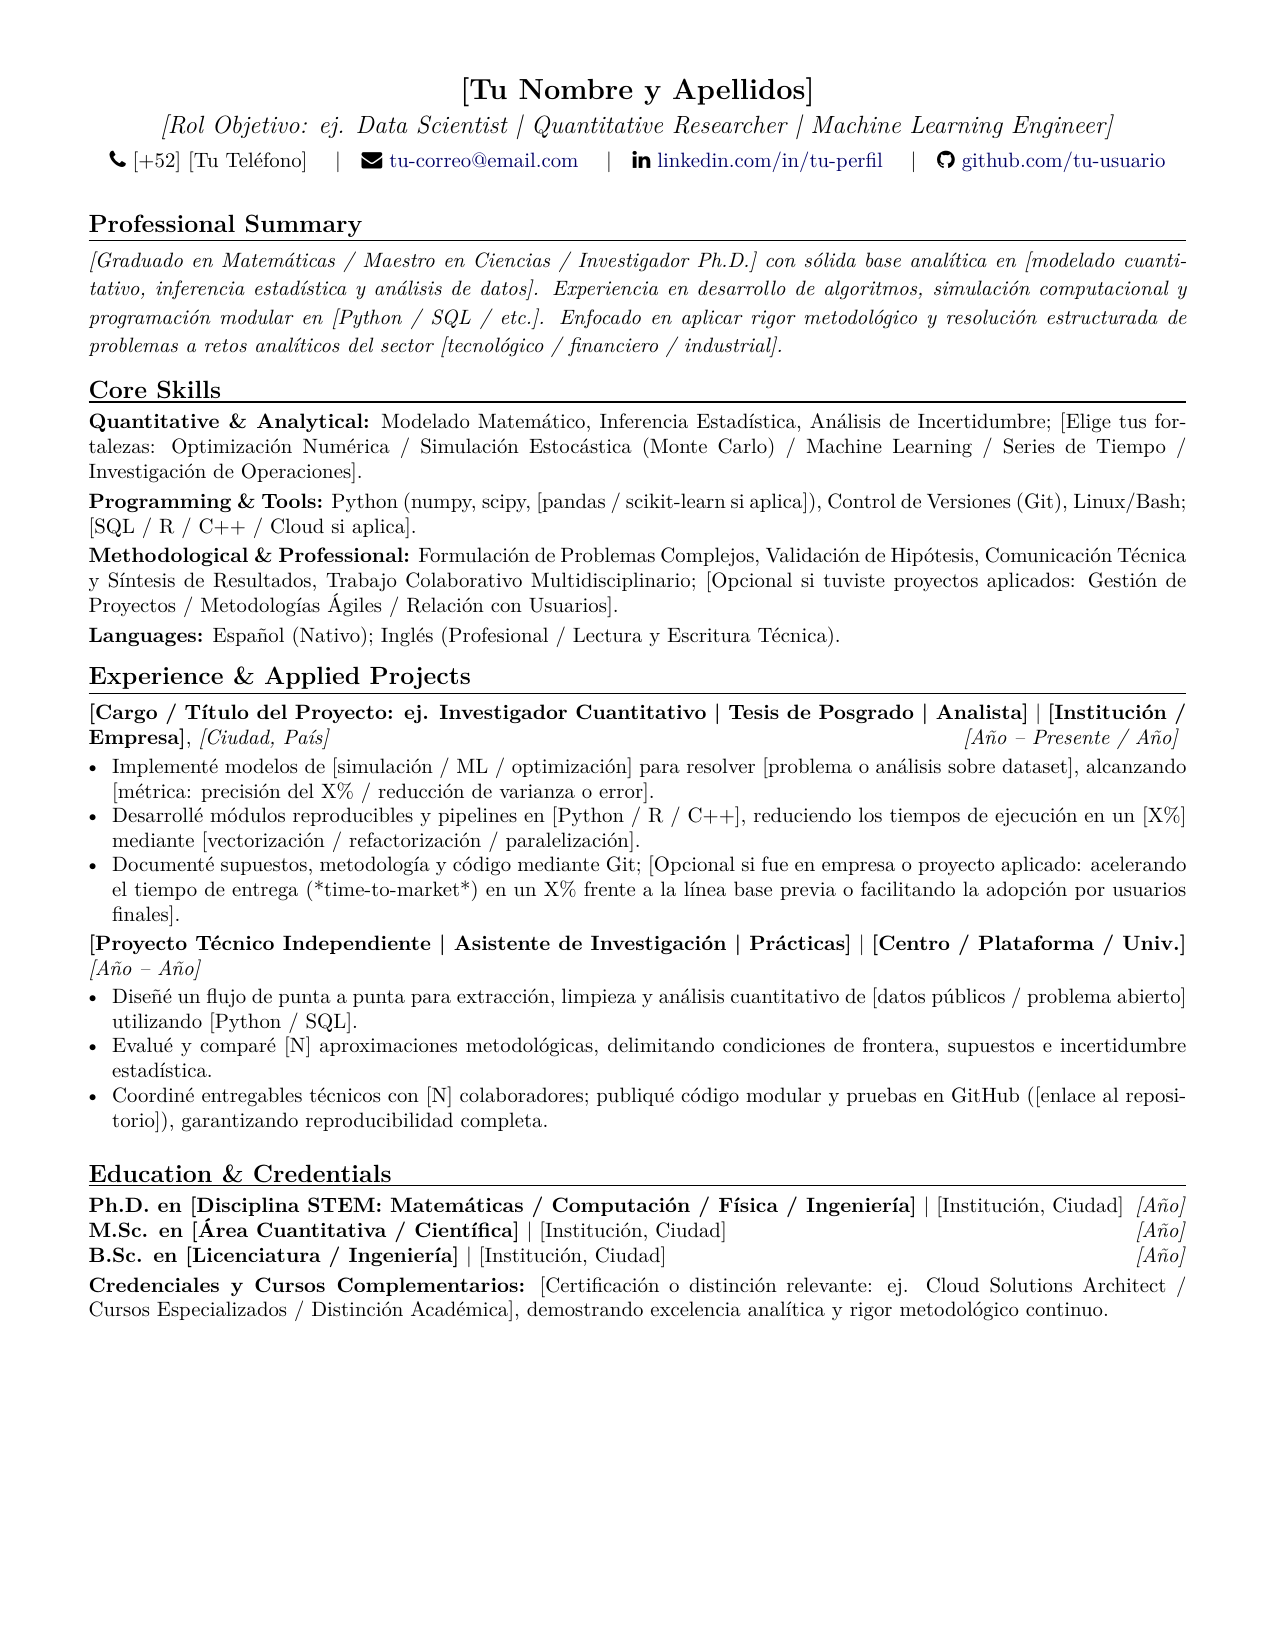
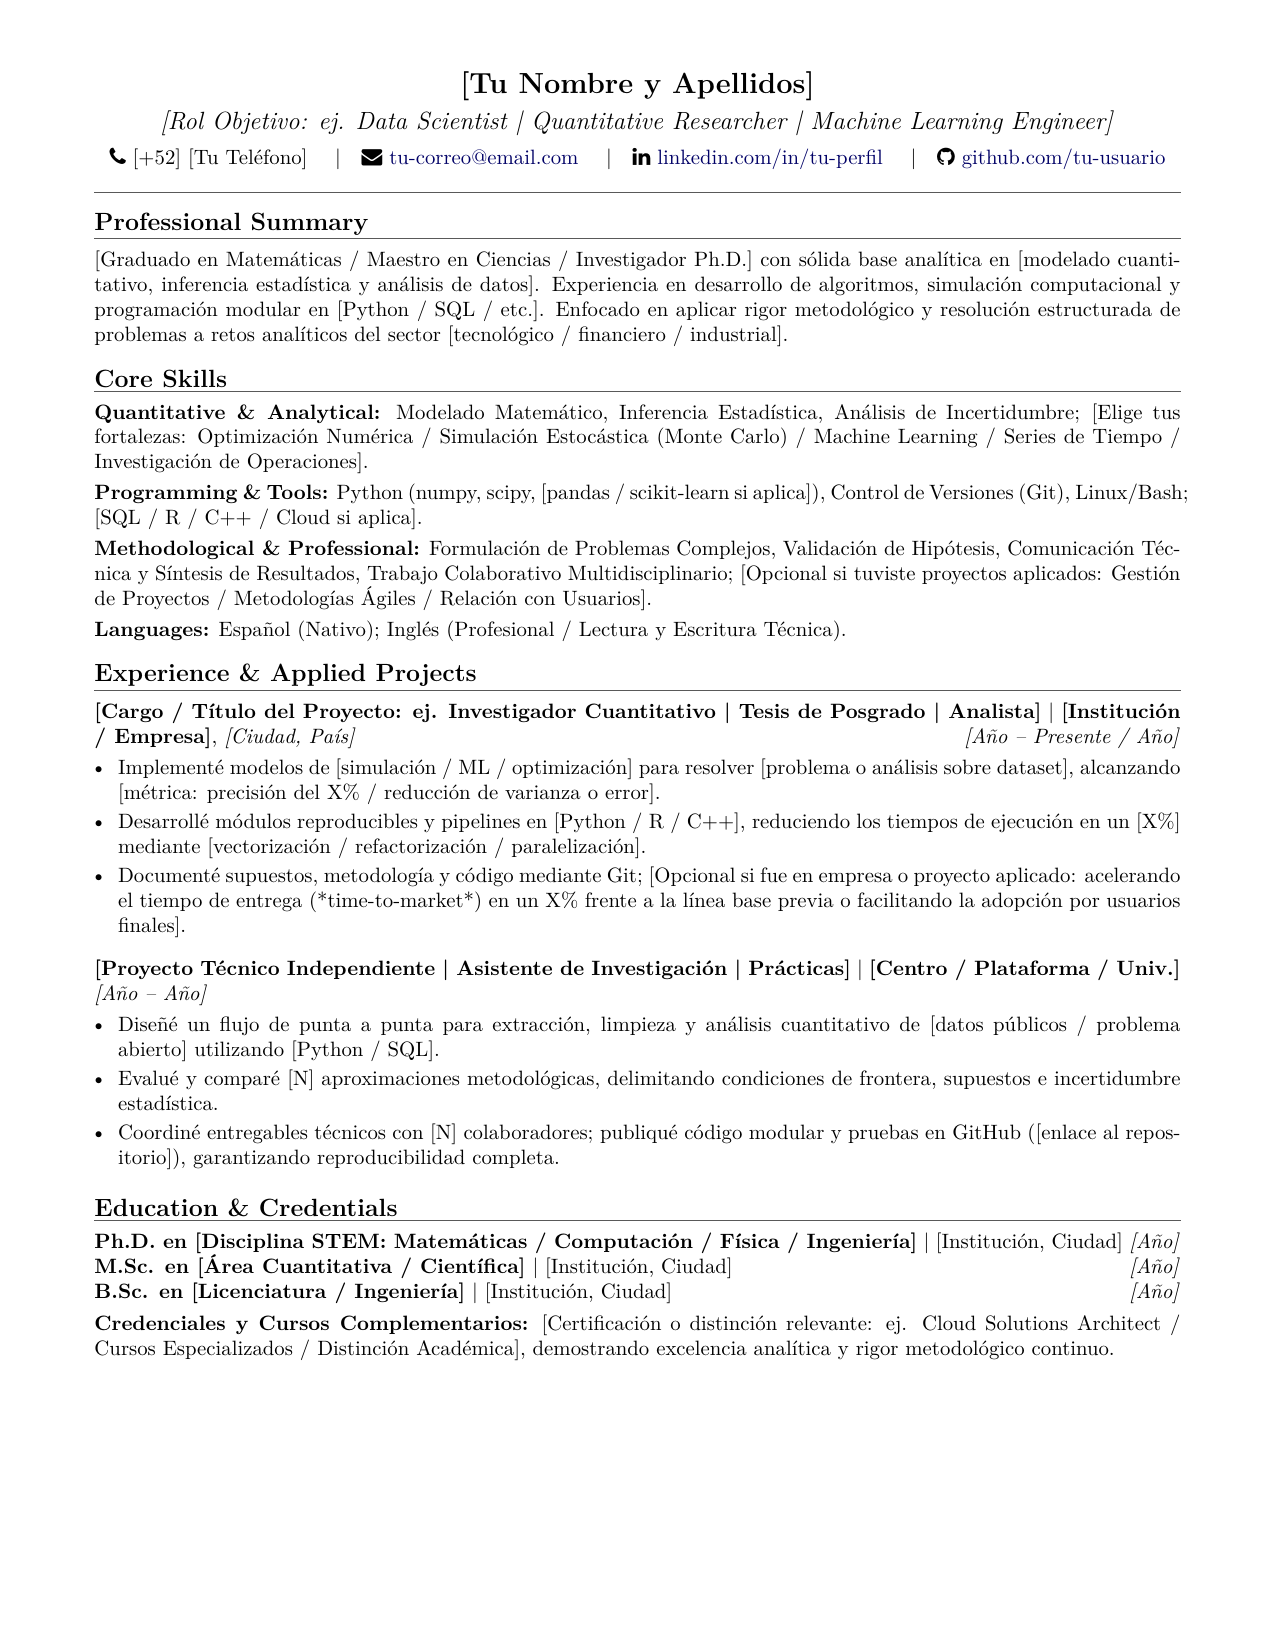
style: beautify LaTeX template — better vertical rhythm, header rule, itemsep spacing

Changed region(s): [[0.0612, 0.0309, 0.9482, 0.8345]]

diff --git a/recursos/plantilla-cv.tex b/recursos/plantilla-cv.tex
@@ -15,10 +15,10 @@
 
 % Márgenes optimizados para aprovechar la página sin saturarla
 \usepackage[paper=letterpaper,
-            top=1.3cm,
-            bottom=1.3cm,
-            left=1.5cm,
-            right=1.5cm]{geometry}
+            top=1.2cm,
+            bottom=1.2cm,
+            left=1.6cm,
+            right=1.6cm]{geometry}
 
 \setlength{\parindent}{0in}
 \usepackage{enumitem}
@@ -28,6 +28,7 @@
 % Enlaces e iconos limpios
 \usepackage{color,hyperref}
 \definecolor{darkblue}{rgb}{0.0,0.0,0.4}
+\definecolor{rulecolor}{gray}{0.35}
 \hypersetup{colorlinks,breaklinks,
             linkcolor=darkblue,urlcolor=darkblue,
             anchorcolor=darkblue,citecolor=darkblue}
@@ -36,11 +37,11 @@
 
 % Encabezados de sección limpios y compatibles con ATS
 \newcommand{\cvsection}[1]{%
-  \vspace{0.3cm}%
+  \vspace{0.35cm}%
   {\bfseries\large\scshape #1}%
-  \vspace{0.05cm}%
-  \hrule height 0.6pt%
-  \vspace{0.18cm}%
+  \vspace{0.06cm}%
+  {\color{rulecolor}\hrule height 0.5pt}%
+  \vspace{0.2cm}%
 }
 
 \newcommand{\semilarge}{\fontsize{14}{16.5}\selectfont}
@@ -51,8 +52,8 @@
 % 1. ENCABEZADO (Directo, sin foto y SIN fecha de creación de documento)
 % ==============================================================================
 \begin{center}
-  {\semilarge \textbf{[Tu Nombre y Apellidos]}} \\[0.1cm]
-  {\large \textit{[Rol Objetivo: ej. Data Scientist \textbar \ Quantitative Researcher \textbar \ Machine Learning Engineer]}} \\[0.15cm]
+  {\semilarge \textbf{[Tu Nombre y Apellidos]}} \\[0.12cm]
+  {\large \textit{[Rol Objetivo: ej. Data Scientist \textbar \ Quantitative Researcher \textbar \ Machine Learning Engineer]}} \\[0.18cm]
   \small
   \faPhone~[+52] [Tu Teléfono] \quad \textbar \quad
   \faEnvelope~\href{mailto:tu-correo@email.com}{tu-correo@email.com} \quad \textbar \quad
@@ -60,15 +61,15 @@
   \faGithub~\href{https://github.com/tu-usuario}{github.com/tu-usuario}
 \end{center}
 
-\vspace{-0.1cm}
+\vspace{-0.05cm}
+{\color{rulecolor}\hrule height 0.3pt}
 
 % ==============================================================================
 % 2. RESUMEN PROFESIONAL (3-4 líneas: quién eres analíticamente y qué resuelves)
 % ==============================================================================
 \cvsection{Professional Summary}
-\textit{\small
+\small
 [Graduado en Matemáticas / Maestro en Ciencias / Investigador Ph.D.] con sólida base analítica en [modelado cuantitativo, inferencia estadística y análisis de datos]. Experiencia en desarrollo de algoritmos, simulación computacional y programación modular en [Python / SQL / etc.]. Enfocado en aplicar rigor metodológico y resolución estructurada de problemas a retos analíticos del sector [tecnológico / financiero / industrial].
-}
 
 % ==============================================================================
 % 3. HABILIDADES CLAVE (Visible de inmediato para superar el filtro inicial)
@@ -79,13 +80,13 @@
 \small
 \textbf{Quantitative \& Analytical:} Modelado Matemático, Inferencia Estadística, Análisis de Incertidumbre; [Elige tus fortalezas: Optimización Numérica / Simulación Estocástica (Monte Carlo) / Machine Learning / Series de Tiempo / Investigación de Operaciones].
 
-\vspace{0.08cm}
+\vspace{0.1cm}
 \textbf{Programming \& Tools:} Python (numpy, scipy, [pandas / scikit-learn si aplica]), Control de Versiones (Git), Linux/Bash; [SQL / R / C++ / Cloud si aplica].
 
-\vspace{0.08cm}
+\vspace{0.1cm}
 \textbf{Methodological \& Professional:} Formulación de Problemas Complejos, Validación de Hipótesis, Comunicación Técnica y Síntesis de Resultados, Trabajo Colaborativo Multidisciplinario; [Opcional si tuviste proyectos aplicados: Gestión de Proyectos / Metodologías Ágiles / Relación con Usuarios].
 
-\vspace{0.08cm}
+\vspace{0.1cm}
 \textbf{Languages:} Español (Nativo); Inglés (Profesional / Lectura y Escritura Técnica).
 
 % ==============================================================================
@@ -101,25 +102,19 @@
 
 % BLOQUE 1: Tu proyecto principal de investigación, tesis o rol laboral previo
 \textbf{[Cargo / Título del Proyecto: ej. Investigador Cuantitativo \textbar \ Tesis de Posgrado \textbar \ Analista]} \textbar \ \textbf{[Institución / Empresa]}, \textit{[Ciudad, País]} \hfill \textit{[Año -- Presente / Año]}
-\vspace{-0.15cm}
-\begin{itemize}[leftmargin=0.4cm] \small
+\begin{itemize}[leftmargin=0.4cm, itemsep=2pt, parsep=0pt, topsep=3pt] \small
   \item Implementé modelos de [simulación / ML / optimización] para resolver [problema o análisis sobre dataset], alcanzando [métrica: precisión del X\% / reducción de varianza o error].
-  \vspace{-0.22cm}
   \item Desarrollé módulos reproducibles y pipelines en [Python / R / C++], reduciendo los tiempos de ejecución en un [X\%] mediante [vectorización / refactorización / paralelización].
-  \vspace{-0.22cm}
   \item Documenté supuestos, metodología y código mediante Git; [Opcional si fue en empresa o proyecto aplicado: acelerando el tiempo de entrega (*time-to-market*) en un X\% frente a la línea base previa o facilitando la adopción por usuarios finales].
 \end{itemize}
 
-\vspace{-0.15cm}
+\medskip
 
 % BLOQUE 2: Segundo proyecto relevante (investigación previa, proyecto de GitHub o prácticas)
 \textbf{[Proyecto Técnico Independiente \textbar \ Asistente de Investigación \textbar \ Prácticas]} \textbar \ \textbf{[Centro / Plataforma / Univ.]} \hfill \textit{[Año -- Año]}
-\vspace{-0.15cm}
-\begin{itemize}[leftmargin=0.4cm] \small
+\begin{itemize}[leftmargin=0.4cm, itemsep=2pt, parsep=0pt, topsep=3pt] \small
   \item Diseñé un flujo de punta a punta para extracción, limpieza y análisis cuantitativo de [datos públicos / problema abierto] utilizando [Python / SQL].
-  \vspace{-0.22cm}
   \item Evalué y comparé [N] aproximaciones metodológicas, delimitando condiciones de frontera, supuestos e incertidumbre estadística.
-  \vspace{-0.22cm}
   \item Coordiné entregables técnicos con [N] colaboradores; publiqué código modular y pruebas en GitHub ([enlace al repositorio]), garantizando reproducibilidad completa.
 \end{itemize}
 
@@ -132,7 +127,7 @@
 \textbf{M.Sc. en [Área Cuantitativa / Científica]} \textbar \ [Institución, Ciudad] \hfill \textit{[Año]} \\
 \textbf{B.Sc. en [Licenciatura / Ingeniería]} \textbar \ [Institución, Ciudad] \hfill \textit{[Año]}
 
-\vspace{0.08cm}
+\vspace{0.12cm}
 \textbf{Credenciales y Cursos Complementarios:} [Certificación o distinción relevante: ej. Cloud Solutions Architect / Cursos Especializados / Distinción Académica], demostrando excelencia analítica y rigor metodológico continuo.
 
 \end{document}
